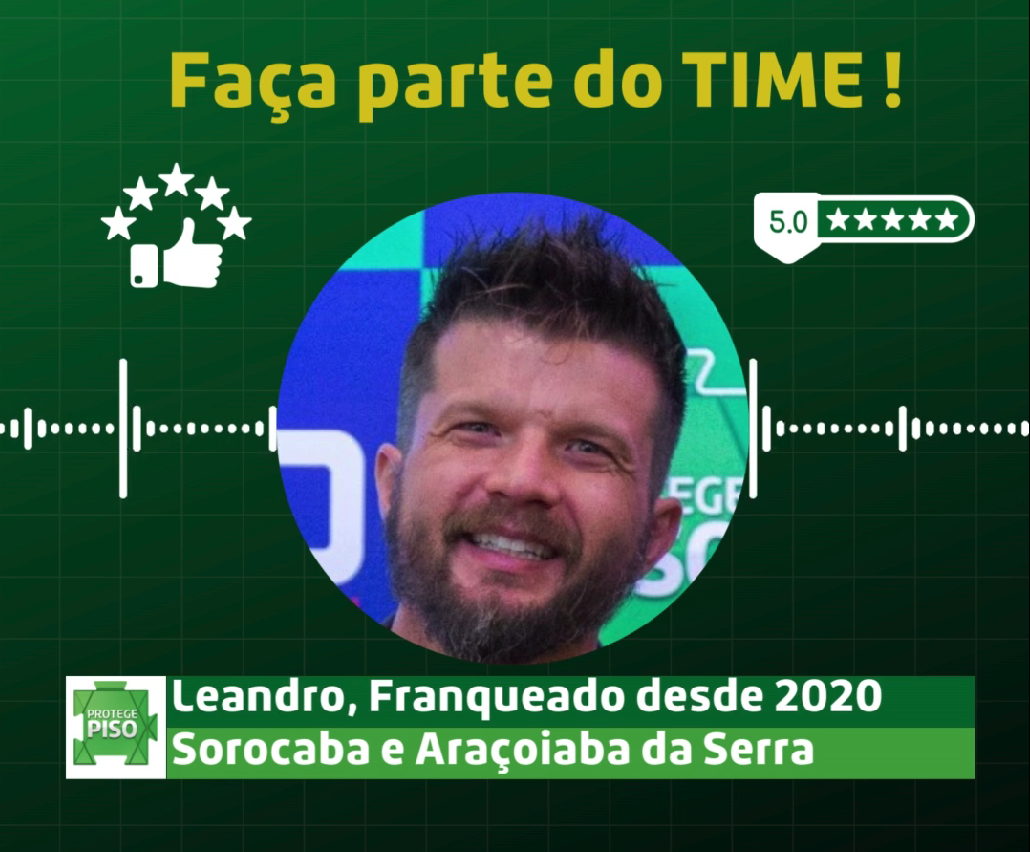
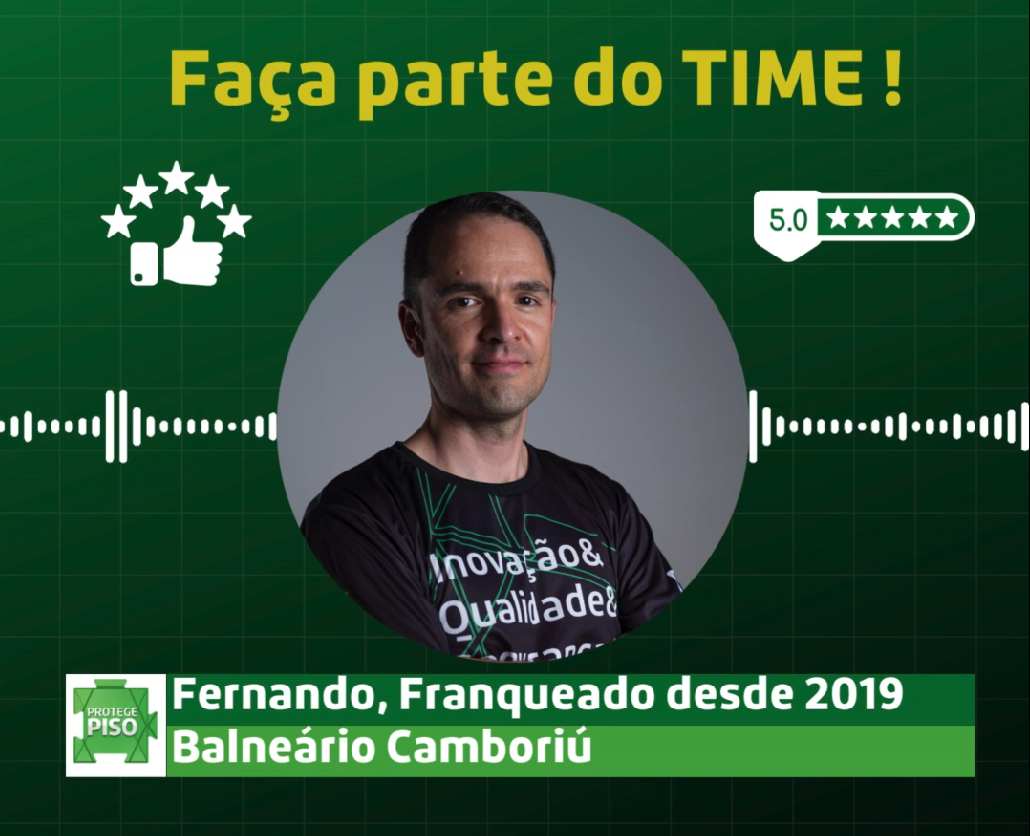
first commit franquia balneario camboriu

diff --git a/index.html b/index.html
@@ -5,7 +5,7 @@
     <meta charset="UTF-8">
     <meta name="viewport" content="width=device-width, initial-scale=1.0">
     <meta name="Landing Page" content="Website da franquia da protege piso de Palmas">
-    <title>Protege Piso Araçoiaba da Serra</title>
+    <title>Protege Piso Balneário Camboriú</title>
     <link rel="stylesheet" href="styles.css">
     <link rel="stylesheet" href="https://cdn.jsdelivr.net/npm/glider-js@1/glider.min.css">
     <script src="https://cdn.jsdelivr.net/npm/glider-js@1/glider.min.js"></script>
@@ -32,7 +32,7 @@
                 <div class="navbar-container">
                     <a href="#" class="logo">
                         <img src="./images/logoprotege.png" alt="Logo da protege piso">
-                        <h3>Araçoiaba da Serra</h3>
+                        <h3>Balneário Camboriú</h3>
                     </a>
 
                     <div class="menu-toggle" id="mobile-menu" onclick="toggleMenu()">
@@ -46,7 +46,7 @@
                         <li class="nav-item"><a href="#Informacoes" class="nav-link">Informações</a></li>
                         <li class="nav-item"><a href="#" class="nav-link" id="openChatBtn">Seja um franqueado</a></li>
                         <li class="nav-item">
-                            <a href="https://api.whatsapp.com/send?phone=5515998004192&text=" target="_blank">
+                            <a href="https://api.whatsapp.com/send/?phone=5547997625505&text&type=phone_number&app_absent=0" target="_blank">
                                 <img src="images/icone_whatsapp.png" alt="icone logo whatsapp" class="whatsapp-icon-nav"
                                     style="margin-right: 10px;">
                             </a>
@@ -185,7 +185,7 @@
                 <p id="followers"></p>
                 <p id="posts"></p>
             </div>
-            <a href="https://www.instagram.com/protegepisosorocaba/" target="_blank"><button type="button"
+            <a href="https://www.instagram.com/protegepisobalneariosc/" target="_blank"><button type="button"
                     class="botao-seguir">Seguir</button></a>
         </div>
         <div class="glider-contain-custom">
@@ -197,7 +197,7 @@
     </section>
 
     <section class="container-quem-somos" id="QuemSomos">
-        <h3>EM ABC DESDE 2020</h3>
+        <h3>EM BALNEÁRIO CAMBORIÚ DESDE 2019</h3>
         <img src="images/na_cidade_desde.PNG" class="imagem-quem-somos" alt="imagem do franqueado">
     </section>
 
@@ -208,20 +208,20 @@
 
         <div class="rodape-informacoes">
             <h5>Franquia</h5>
-            <p>leandro@protegepiso.com.br</p>
+            <p>fernando@protegepiso.com.br</p>
             <div class="item-rodape">
-                <a href="https://api.whatsapp.com/send?phone=5515998004192&text=" target="_blank">
+                <a href="https://api.whatsapp.com/send/?phone=5547997625505&text&type=phone_number&app_absent=0" target="_blank">
                     <img src="images/icone_whatsapp.png" alt="icone logo whatsapp"
                         class="rodape-informacoes-icone-whatsapp">
                 </a>
-                <p>(15) 99800-4192</p>
+                <p>(47) 99762-5505</p>
             </div>
             <div class="item-rodape">
-                <a href="https://www.instagram.com/protegepisosorocaba/" target="_blank">
+                <a href="https://www.instagram.com/protegepisobalneariosc/" target="_blank">
                     <img src="images/icone_instagram.png" alt="icone logo instagram"
                         class="rodape-informacoes-icone-instagram">
                 </a>
-                <p>@protegepisosorocaba
+                <p>@protegepisobalneariosc
                 </p>
             </div>
         </div>

diff --git a/index.js b/index.js
@@ -39,7 +39,7 @@ function toggleMenu() {
     menu.classList.toggle('active');
 }
 
-const apiUrl = 'https://app.ketzim.com/webservice/get-instagram-info/ProtegePisoABC/?Token=Ld7gRCo9JtIRw0Ub3sC3JxuCgIMvSAzJEMLSutCPh9XosGzzqpdlhsqhUYXHHRyHKPZ6MHcwfl8Dl7ohzsKv7jpihquxHvFmEkFJ';
+const apiUrl = 'https://app.ketzim.com/webservice/get-instagram-info/ProtegePisoFlorianópolis/?Token=Ld7gRCo9JtIRw0Ub3sC3JxuCgIMvSAzJEMLSutCPh9XosGzzqpdlhsqhUYXHHRyHKPZ6MHcwfl8Dl7ohzsKv7jpihquxHvFmEkFJ';
 
 function displayUserProfile(profile) {
     document.getElementById('profile-picture').src = profile.profile_picture_url;
@@ -134,7 +134,7 @@ function waitForJivoChat() {
 waitForJivoChat();
 
 const iframeContainer = document.querySelector('.container-iframe');
-const iframeUrl = 'https://app.ketzim.com/webservice/mapa/abc/';
+const iframeUrl = 'https://app.ketzim.com/webservice/mapa/balneariocamboriu/';
 
 
 fetch(iframeUrl)
